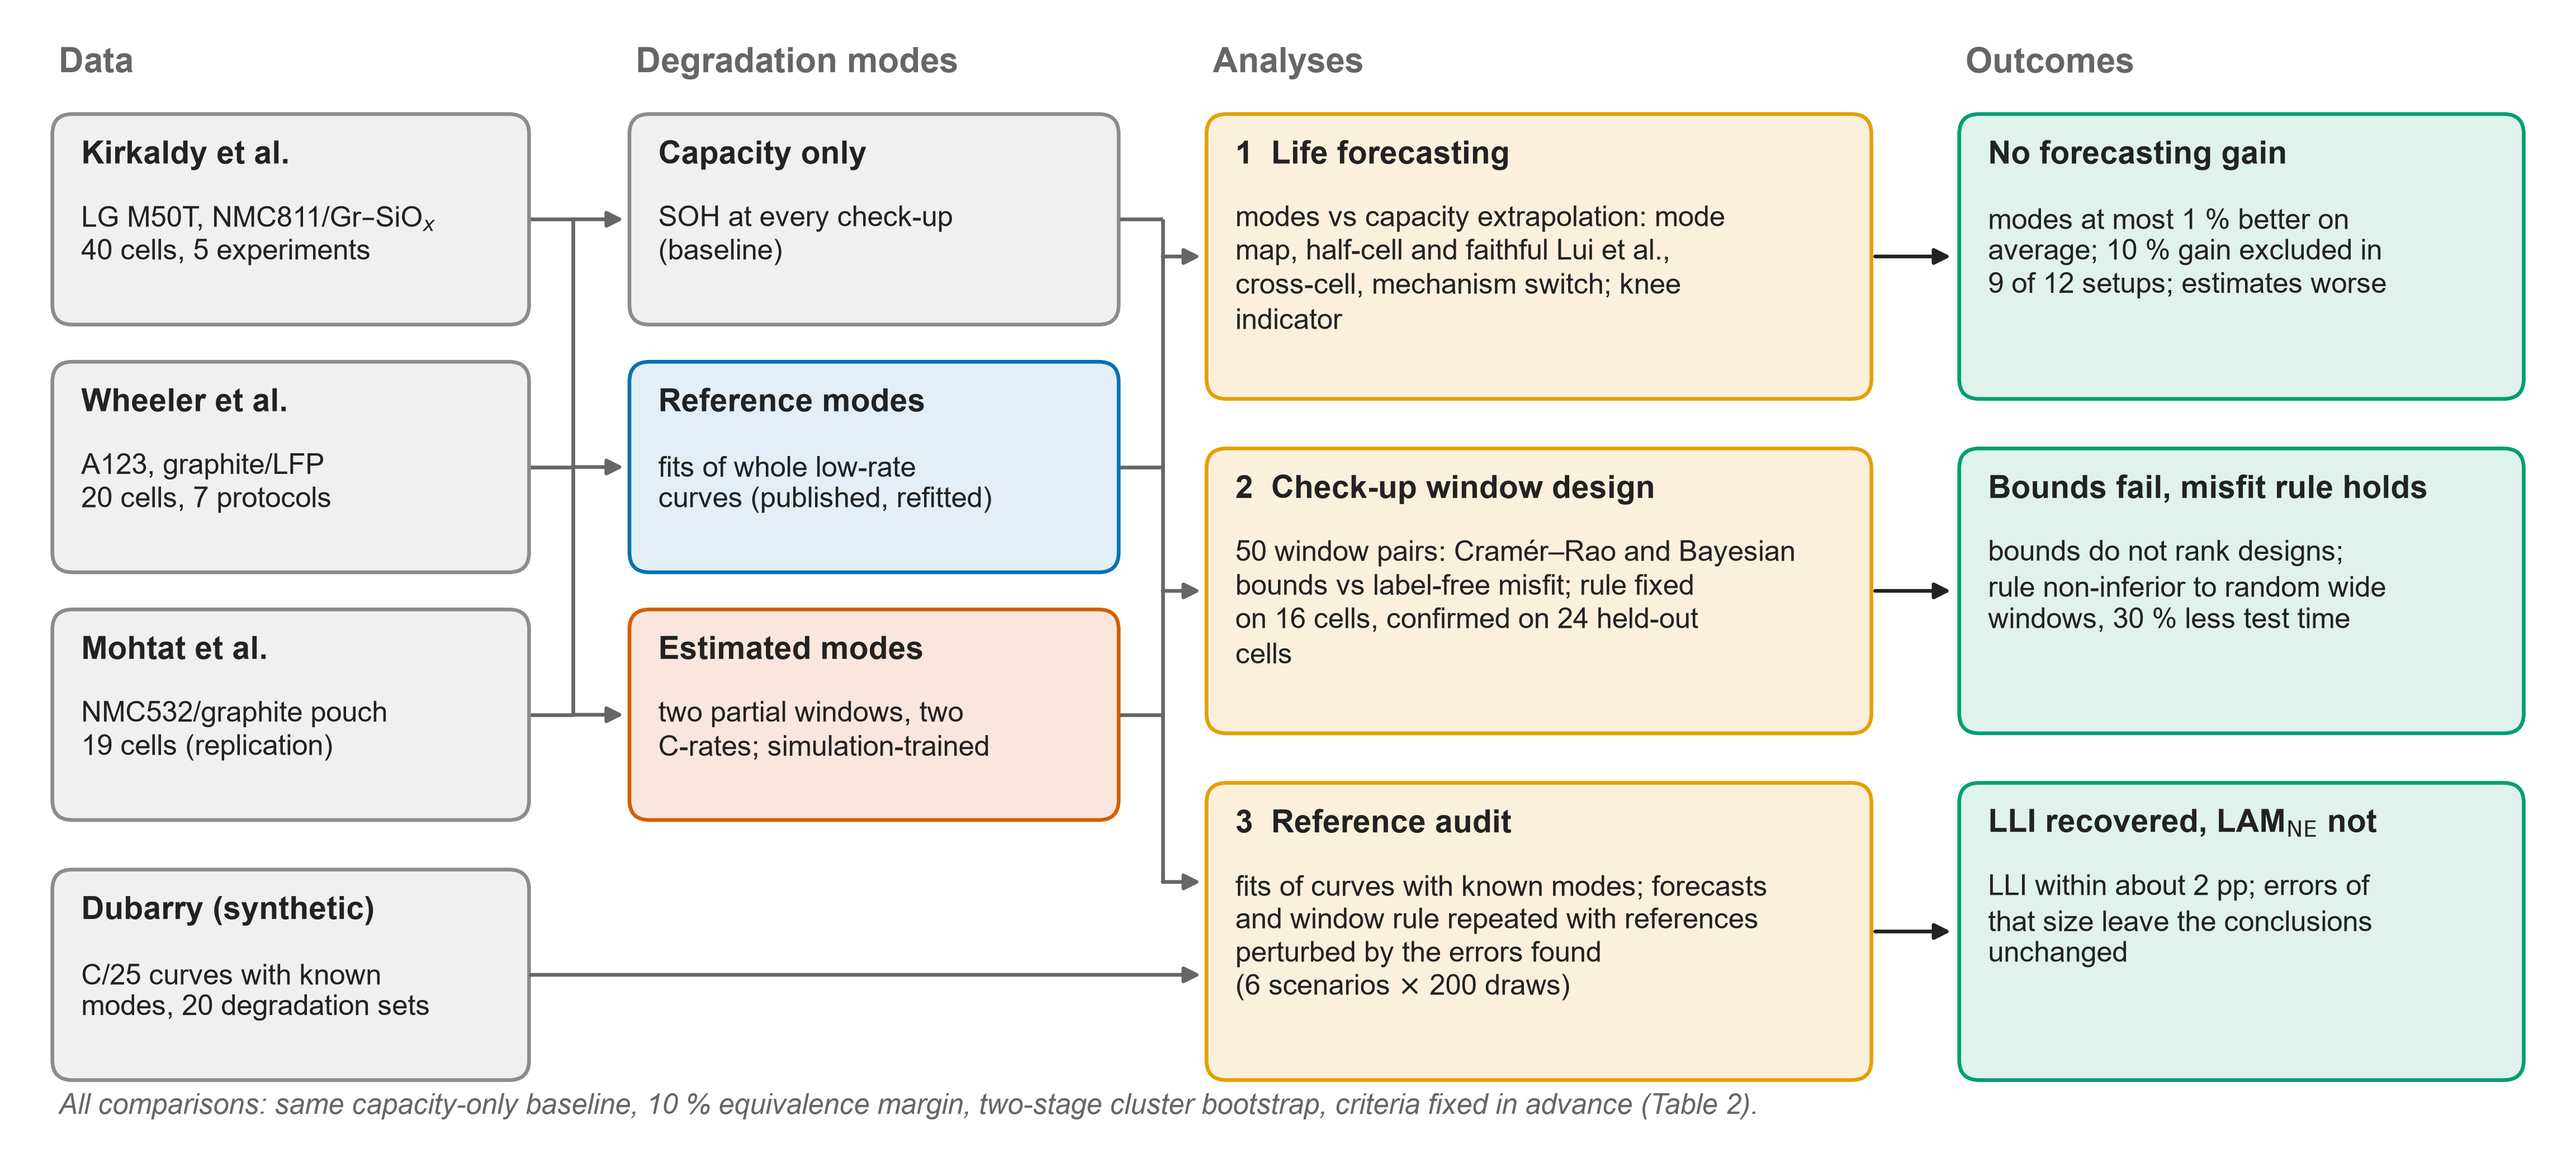
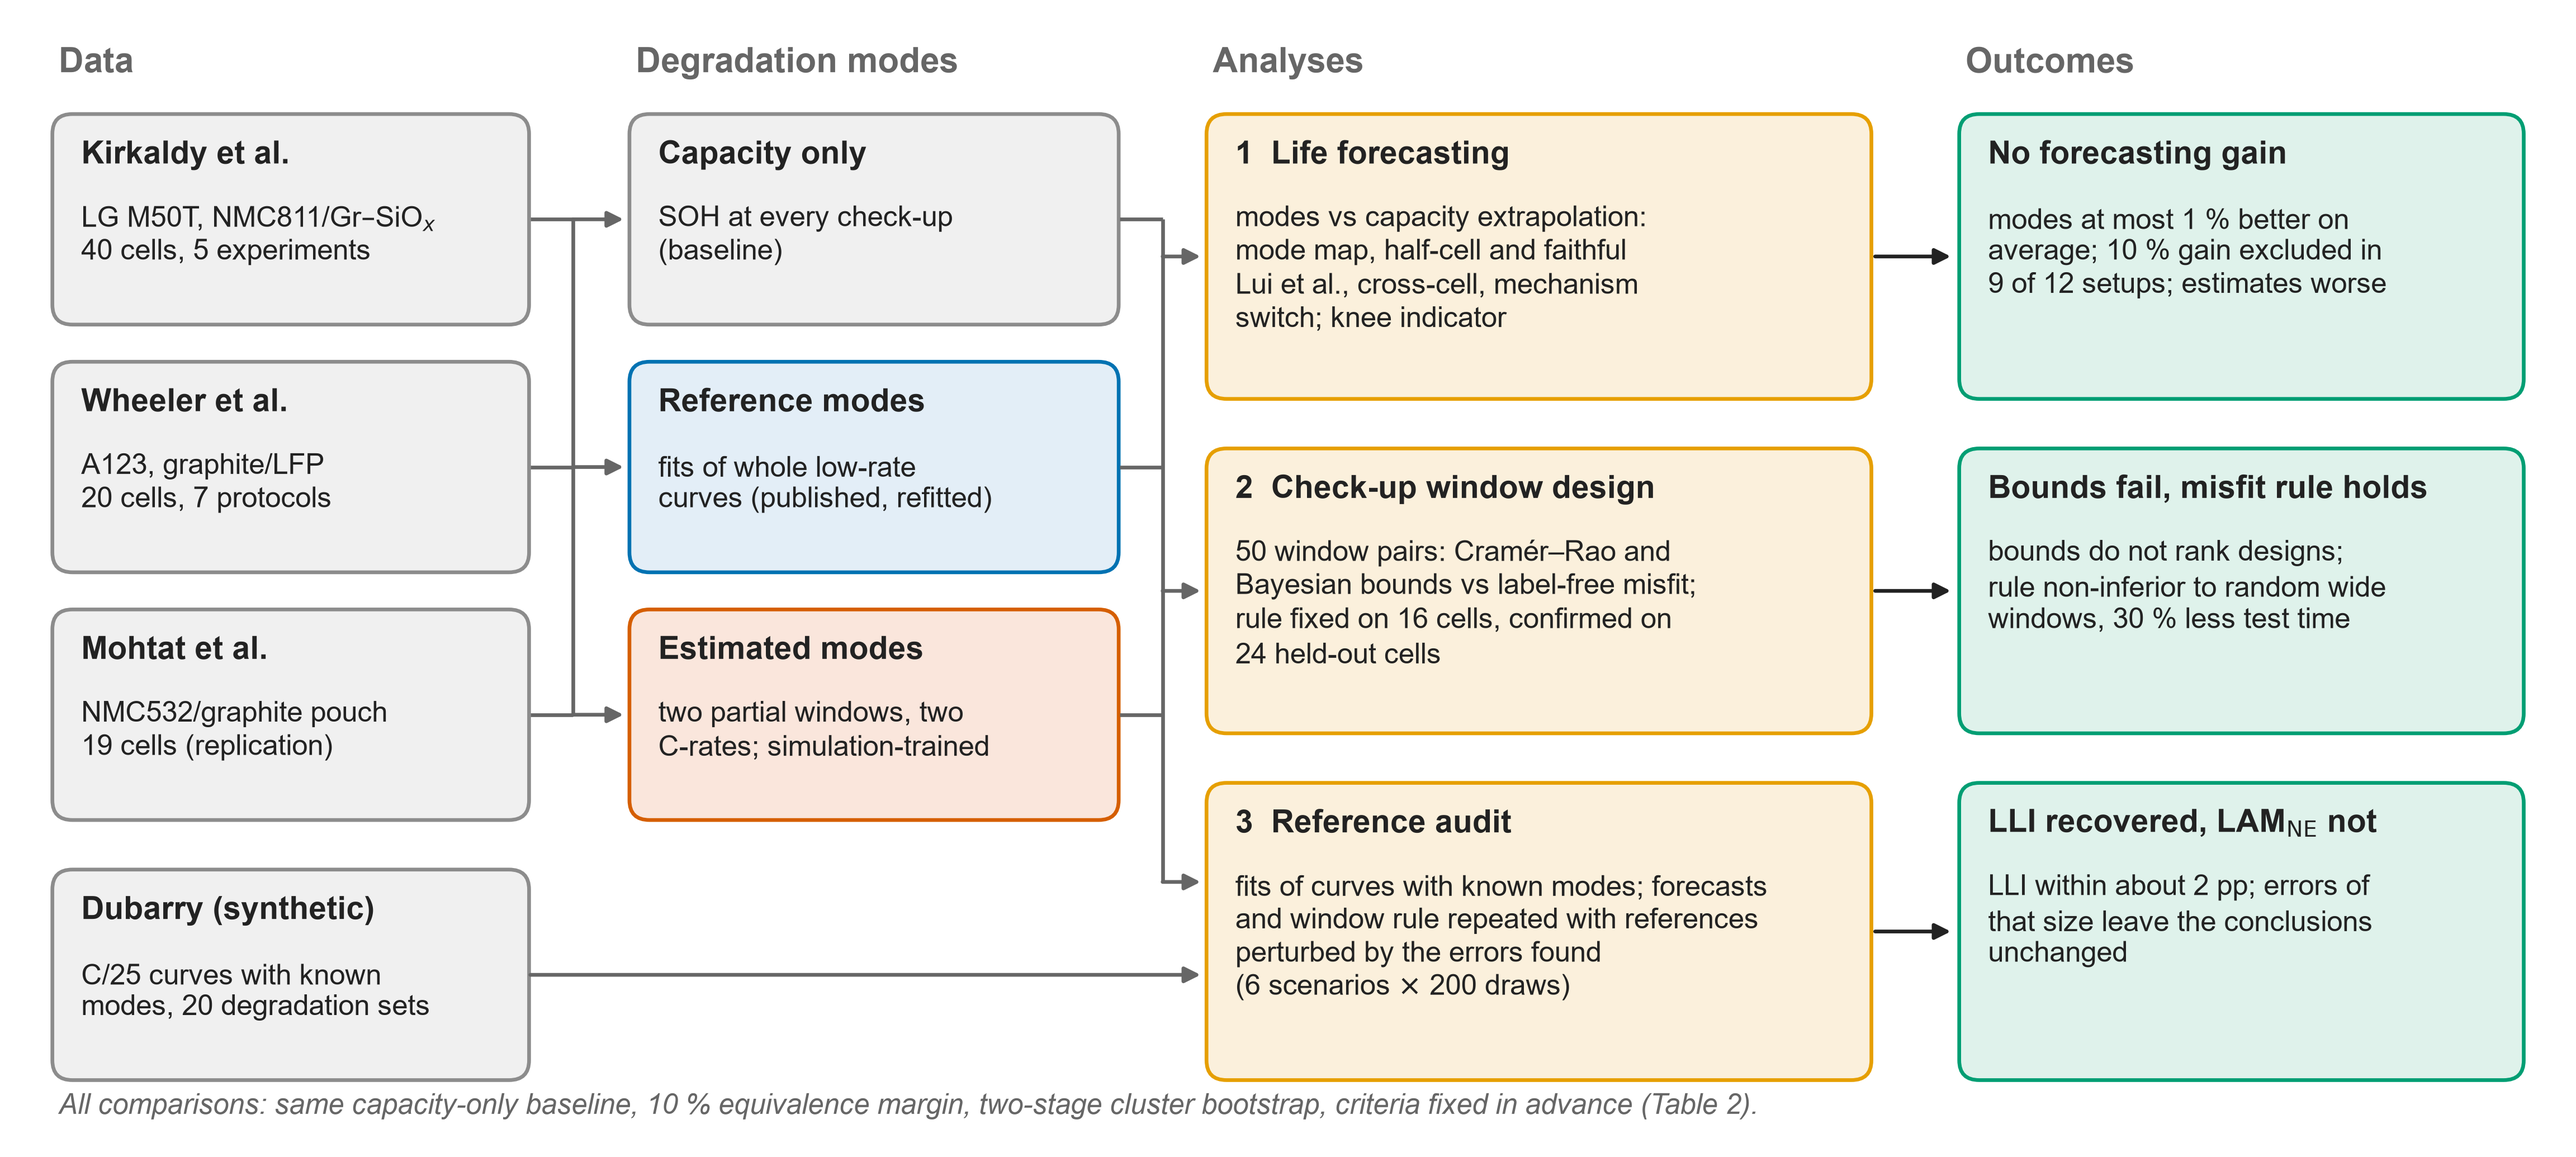
Figure 1: rebalance line breaks

Changed region(s): [[0.4688, 0.1855, 0.6562, 0.2783], [0.4688, 0.4947, 0.6562, 0.5874], [0.6562, 0.4638, 0.6875, 0.4947]]

diff --git a/checkup-design/paper/fig0_workflow.py b/checkup-design/paper/fig0_workflow.py
@@ -50,9 +50,9 @@ m2 = box(24, 12.5, 19, 8, "Estimated modes", "two partial windows, two\nC-rates;
 
 # analyses
 a1 = box(47, 29.5, 26, 11, "1  Life forecasting",
-         "modes vs capacity extrapolation: mode\nmap, half-cell and faithful Lui et al.,\ncross-cell, mechanism switch; knee\nindicator", ORANGE)
+         "modes vs capacity extrapolation:\nmode map, half-cell and faithful\nLui et al., cross-cell, mechanism\nswitch; knee indicator", ORANGE)
 a2 = box(47, 16, 26, 11, "2  Check-up window design",
-         "50 window pairs: Cramér–Rao and Bayesian\nbounds vs label-free misfit; rule fixed\non 16 cells, confirmed on 24 held-out\ncells", ORANGE)
+         "50 window pairs: Cramér–Rao and\nBayesian bounds vs label-free misfit;\nrule fixed on 16 cells, confirmed on\n24 held-out cells", ORANGE)
 a3 = box(47, 2.0, 26, 11.5, "3  Reference audit",
          "fits of curves with known modes; forecasts\nand window rule repeated with references\nperturbed by the errors found\n(6 scenarios $\\times$ 200 draws)", ORANGE)
 
